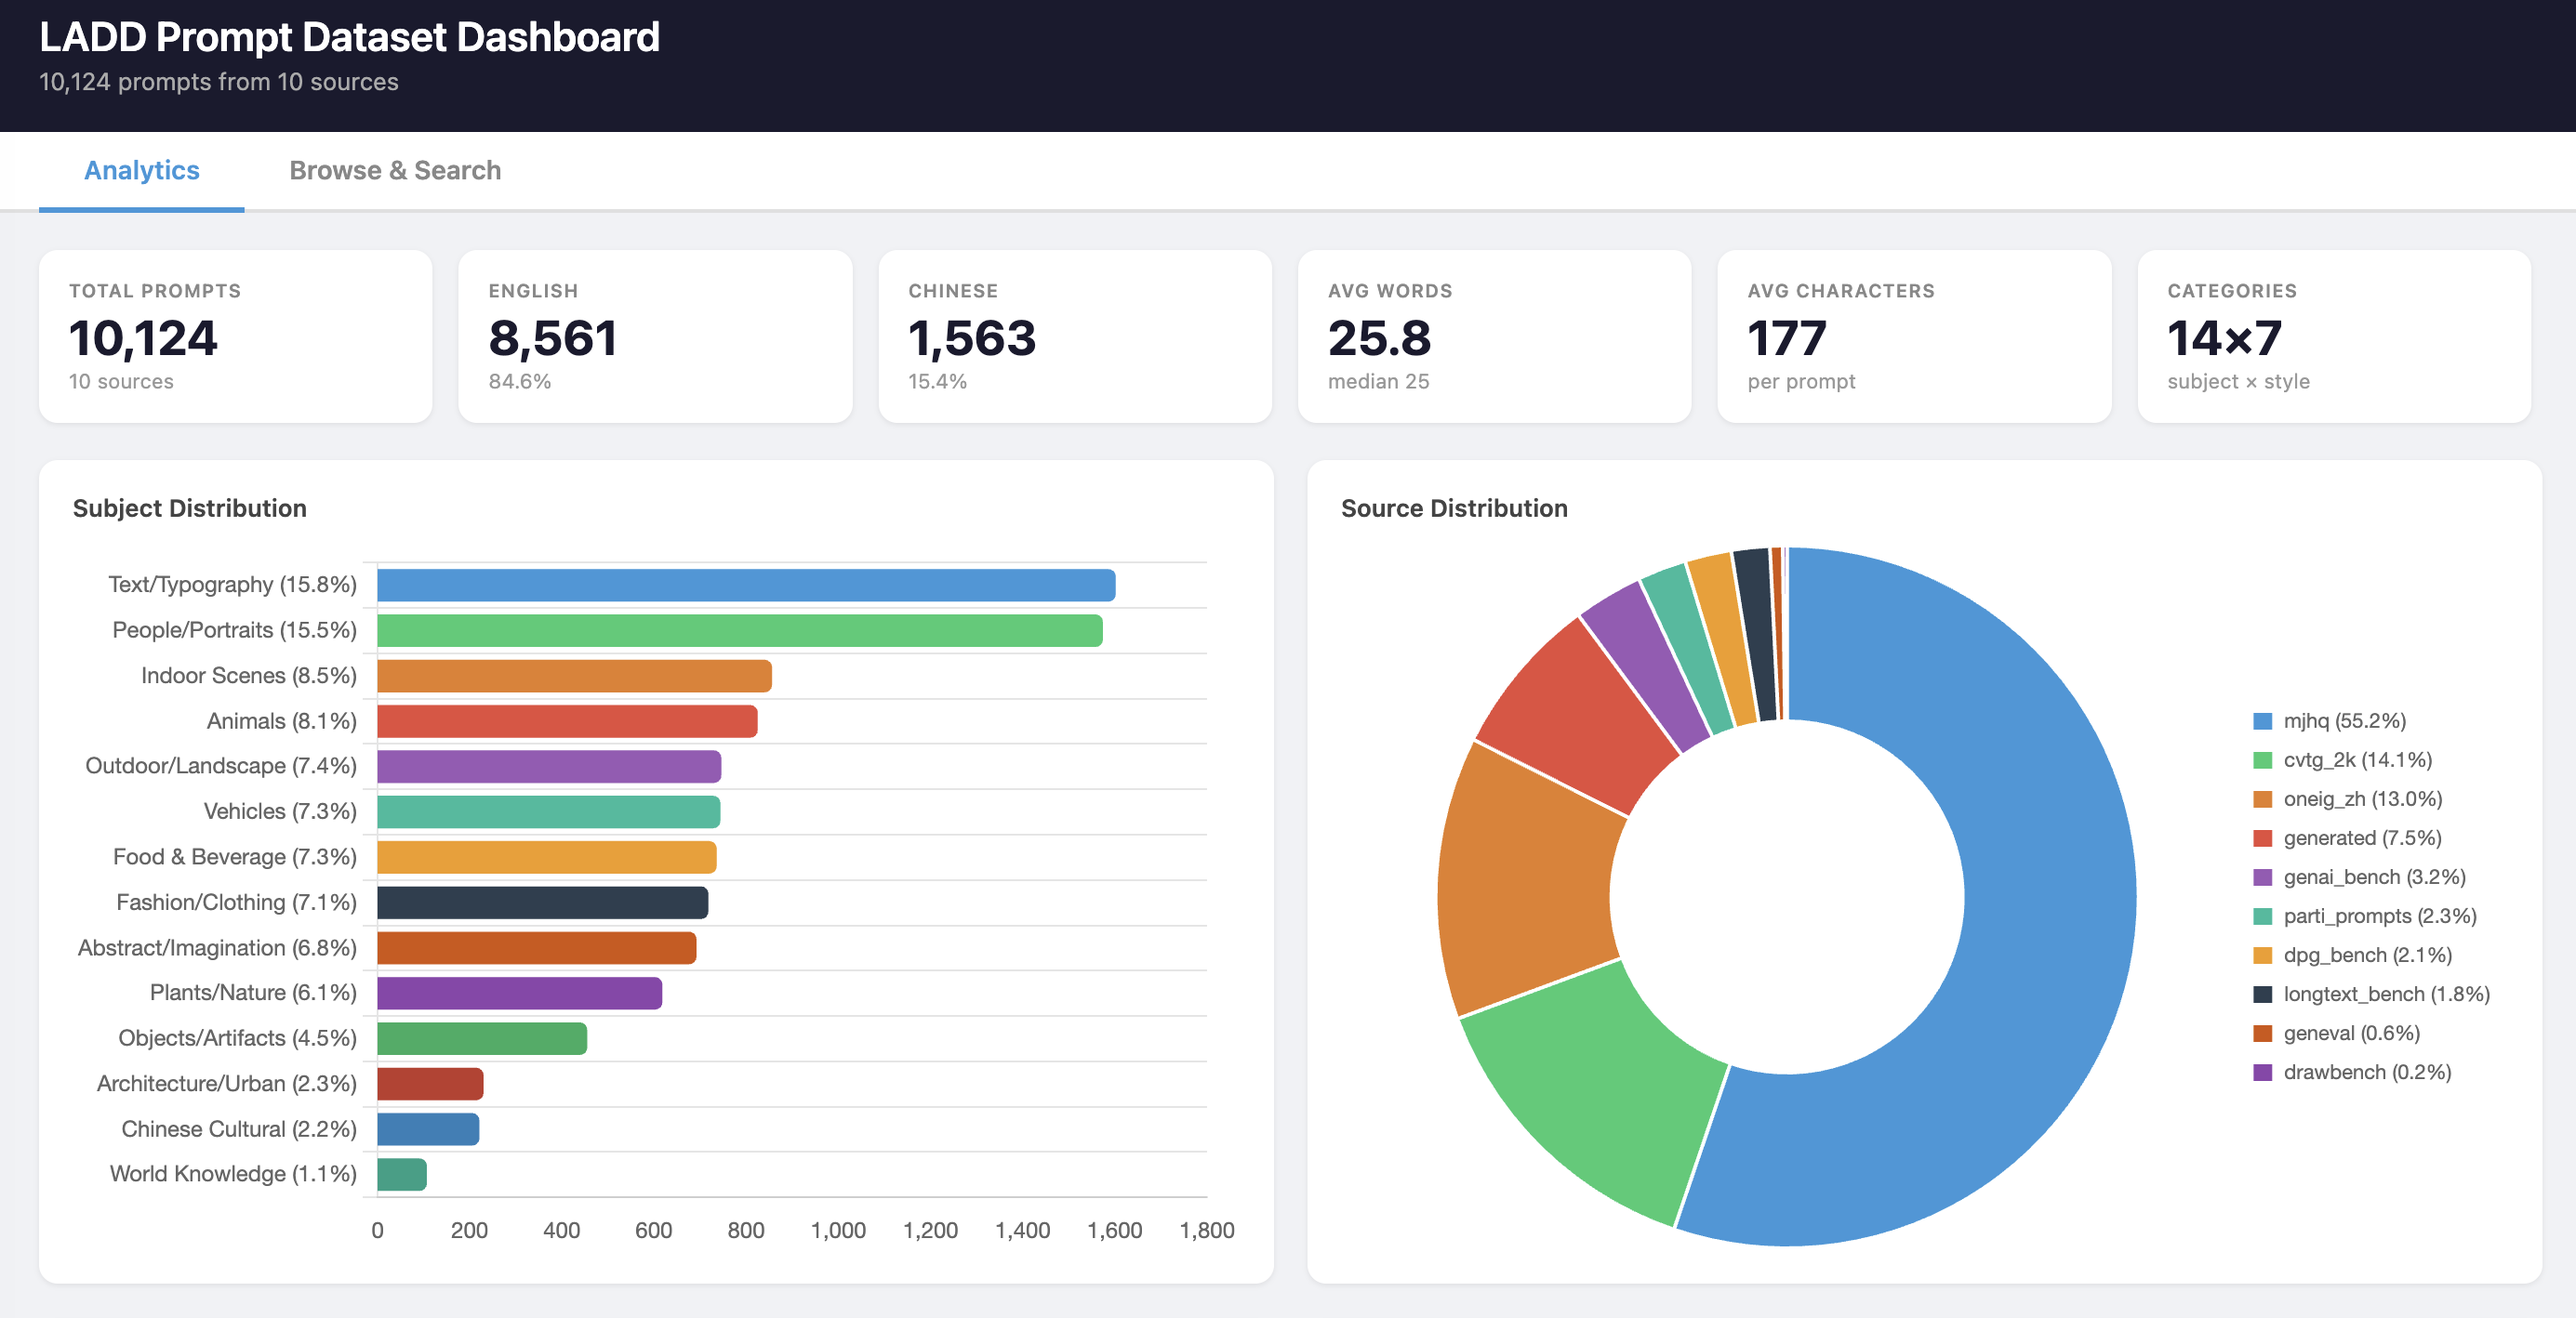
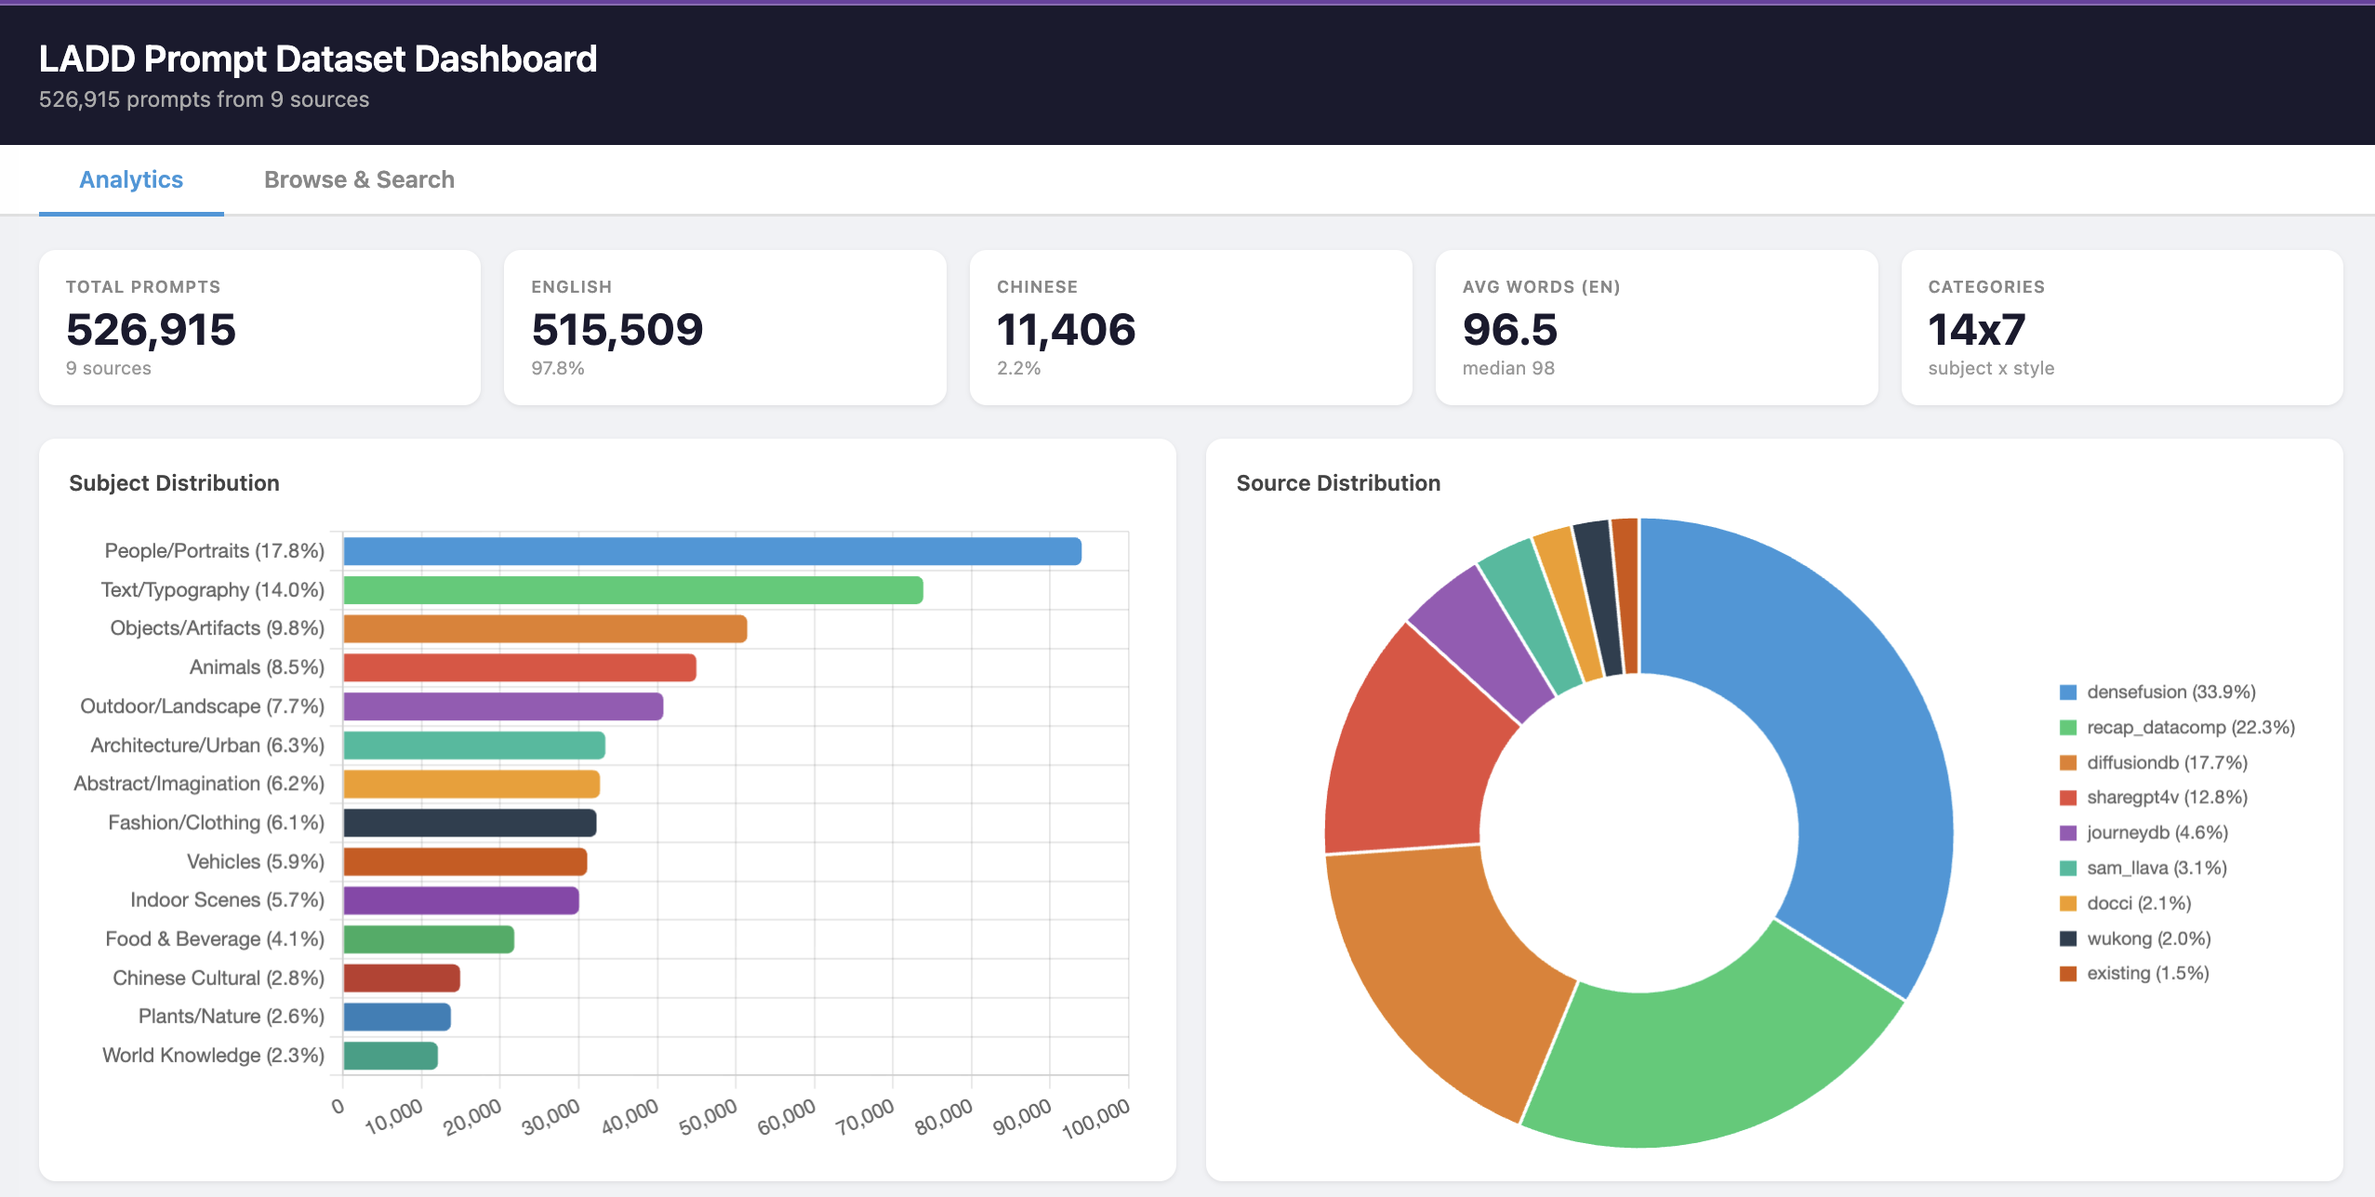
Update LADD data pipeline post with 527K dataset stats, dashboard screenshots, and t-SNE visualizations

diff --git a/_posts/2026-03-31-ladd-data-pipeline.md b/_posts/2026-03-31-ladd-data-pipeline.md
@@ -18,7 +18,7 @@ math: true
 4. [Deduplication: 970K to 630K](#3-deduplication-970k-to-630k)
 5. [Classification: From Keywords to Hybrid](#4-classification-from-keywords-to-hybrid)
 6. [Enforcing Balance](#5-enforcing-balance)
-7. [The Final Dataset](#6-the-final-dataset)
+7. [The Final Dataset](#6-the-final-dataset) — Dashboard, t-SNE, Browse
 8. [Lessons Learned](#7-lessons-learned)
 
 ---
@@ -29,7 +29,7 @@ LADD (Latent Adversarial Diffusion Distillation) compresses a 50-step diffusion 
 
 This means the dataset is just a list of prompts. But "just prompts" hides real complexity: the prompts must be diverse enough that the student generalizes across content types, detailed enough to stress prompt adherence, and balanced across a taxonomy of subjects, styles, and cameras.
 
-We started with a 12K seed dataset built from T2I evaluation benchmarks --- gap-filled and length-balanced with Claude-generated prompts. That was enough to validate the pipeline, but not enough to train on: at batch size 256, the model exhausts 12K prompts in ~47 iterations and spends the rest of training recycling stale gradients. This post covers how we scaled that to **630K diverse, deduplicated, and classified prompts** by harvesting from 9 large-scale sources, running two-stage deduplication, and building a hybrid classification system that works on verbose VLM captions.
+We started with a 12K seed dataset built from T2I evaluation benchmarks --- gap-filled and length-balanced with Claude-generated prompts. That was enough to validate the pipeline, but not enough to train on: at batch size 256, the model exhausts 12K prompts in ~47 iterations and spends the rest of training recycling stale gradients. This post covers how we scaled that to **527K diverse, deduplicated, and classified prompts** by harvesting from 9 large-scale sources, running two-stage deduplication, building a hybrid classification system that works on verbose VLM captions, and applying a 15% subject cap to enforce balance.
 
 ![The full data pipeline from harvesting through deduplication, classification, and balance enforcement to the final dataset](/images/ladd-data-pipeline/pipeline_workflow.svg)
 
@@ -55,7 +55,7 @@ Neither the ADD nor LADD papers disclose exact dataset sizes, but we can back in
 | LADD conservative estimate | 10,000 | 256 | 2.5M |
 | LADD likely estimate | 10,000 | 512 | 5M |
 
-LADD samples prompts from SD3's full training set (millions of unique prompts), so repeats are rare. At 12K prompts with 10K iterations and batch size 256, each prompt would be seen ~213 times. At 630K, that drops to ~4 times --- comparable to the original paper's regime.
+LADD samples prompts from SD3's full training set (millions of unique prompts), so repeats are rare. At 12K prompts with 10K iterations and batch size 256, each prompt would be seen ~213 times. At 527K, that drops to ~5 times --- comparable to the original paper's regime.
 
 ---
 
@@ -143,7 +143,7 @@ We embed all 768K surviving prompts with `all-MiniLM-L6-v2` via raw PyTorch (not
 
 The 0.90 cosine threshold was chosen to catch same-scene paraphrases while preserving same-subject-different-scene diversity. At 0.85 it was too aggressive --- *"a cat in a cinema"* and *"a kitten watching TV on a couch"* are different training signals.
 
-**Total dedup: 970K → 630K (35% removed)** in about 3.5 hours on CPU. After balance enforcement (Section 5), the final count is 629,443. With duplicates removed, the next challenge is ensuring these 630K prompts are correctly classified across the taxonomy.
+**Total dedup: 970K → 630K (35% removed)** in about 3.5 hours on CPU. After balance enforcement (Section 5), the final count is 526,915 --- the 15% subject cap accounts for most of the additional reduction. With duplicates removed, the next challenge is ensuring these 630K prompts are correctly classified across the taxonomy.
 
 ---
 
@@ -216,7 +216,7 @@ English prompts outside the 8-200 word range are dropped. The upper bound is hig
 ## 6. The Final Dataset
 
 ```
-data/train/metadata.json  — 629,443 prompts (399 MB)
+data/train/metadata.json  — 526,915 prompts (337 MB)
 data/debug/metadata.json  — 98 prompts (1 per Subject×Style cell)
 ```
 
@@ -224,14 +224,56 @@ data/debug/metadata.json  — 98 prompts (1 per Subject×Style cell)
 
 | Metric | Value |
 |--------|-------|
-| Total prompts | 629,443 |
-| All 98 Subject x Style cells populated | Yes (min cell: 23) |
-| Language split | EN 97.7%, ZH 2.3% |
-| Mean EN word count | 93.0 |
-| Max source share | 31.4% (DenseFusion) |
+| Total prompts | 526,915 |
+| All 98 Subject x Style cells populated | Yes |
+| Language split | EN 97.8% (515,509), ZH 2.2% (11,406) |
+| Mean EN word count | 96.5 |
+| Median EN word count | 88 |
+| Categories | 14 Subjects x 7 Styles |
+| Sources | 9 |
 | Exact duplicates | 0 |
 
-The mean word count (93) is higher than the original 12K dataset (35) because VLM captions from DenseFusion, ShareGPT4V, and Recap-DataComp are naturally verbose. For LADD training, this is beneficial --- long, detailed prompts stress-test the student's prompt adherence more aggressively.
+The mean word count (96.5) is higher than the original 12K dataset (35) because VLM captions from DenseFusion, ShareGPT4V, and Recap-DataComp are naturally verbose. For LADD training, this is beneficial --- long, detailed prompts stress-test the student's prompt adherence more aggressively.
+
+### Dashboard
+
+The interactive HTML dashboard provides a complete profile of the final dataset.
+
+![KPI summary, subject distribution, and source distribution for the 527K prompt dataset](/images/ladd-data-pipeline/02_kpi_subject_source.png)
+
+People/Portraits (17.8%) and Text/Typography (14.0%) are the largest subjects. The 15% subject cap reduced People from its original 30-50% dominance; it slightly exceeds 15% in the final dataset because the cap was applied before downstream filtering (Chinese length filter, etc.) shifted the relative proportions. DenseFusion (25.3%) and recap_datacomp (22.3%) contribute the most prompts.
+
+![Style distribution, camera/angle distribution, word count histograms, and top 30 English words](/images/ladd-data-pipeline/03_style_camera_histograms.png)
+
+Photorealistic dominates style (74.6%) as expected for a general-purpose T2I model. The English word count distribution shows a bimodal pattern --- short user prompts from DiffusionDB/JourneyDB and long VLM captions from DenseFusion/ShareGPT4V.
+
+![Subject x Style heatmap showing prompt counts across all 98 taxonomy cells](/images/ladd-data-pipeline/04_heatmap_wordcount.png)
+
+The heatmap confirms all 98 cells are populated. People x Photorealistic (78,806) is the densest cell; sparse cells like Chinese Cultural x Mixed/Experimental (29) reflect genuinely rare combinations rather than classification failures.
+
+![Average word count by source and by subject](/images/ladd-data-pipeline/05_avg_wordcount.png)
+
+DenseFusion averages ~158 words per prompt --- 7x longer than DiffusionDB (~21 words). This length diversity is intentional: short prompts test basic generation quality while long prompts stress-test prompt adherence.
+
+### t-SNE Embedding Visualization
+
+To verify that the taxonomy reflects genuine semantic structure (not just keyword artifacts), we embedded 50K sampled prompts with `all-MiniLM-L6-v2` and projected them to 2D with t-SNE.
+
+![t-SNE visualization of prompt embeddings colored by subject (left) and style (right)](/images/ladd-data-pipeline/06_tsne_embeddings.png)
+
+The subject view (left) shows clear clustering --- Animals, Vehicles, Text/Typography, and Chinese Cultural form distinct islands, confirming the classifier captures real semantic boundaries. The style view (right) shows more overlap, which is expected: style is orthogonal to content and harder to separate in embedding space.
+
+### Browse & Search
+
+The dashboard includes an interactive browser for inspecting individual prompts with filtering by subject, style, camera, source, language, and word count.
+
+![Browse view: Vehicles category showing long, detailed prompts](/images/ladd-data-pipeline/07_browse_english.png)
+
+![Browse view: Vehicles filtered to very short (1-10 word) prompts](/images/ladd-data-pipeline/08_browse_english_short.png)
+
+![Browse view: Food & Beverage short prompts](/images/ladd-data-pipeline/09_browse_food.png)
+
+![Browse view: Chinese prompts filtered to 41-60 characters](/images/ladd-data-pipeline/10_browse_chinese.png)
 
 ### Pipeline scripts
 
@@ -247,7 +289,7 @@ The pipeline is five scripts, each idempotent (skip sources that already have ou
 
 ### Gap to 1M
 
-We're ~370K prompts short of the original 1M target. Options: LLM generation to fill sparse cells, additional sources (COYO-700M, CC3M/CC12M, TextCaps), or accept 630K --- at batch size 256 and 10K iterations, each prompt is seen ~4 times on average, which is still viable for training.
+We're ~470K prompts short of the original 1M target. Options: LLM generation to fill sparse cells, additional sources (COYO-700M, CC3M/CC12M, TextCaps), or accept 527K --- at batch size 256 and 10K iterations, each prompt is seen ~5 times on average, which is still viable for training.
 
 ---
 
